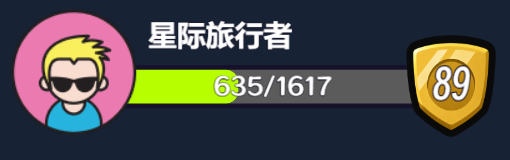
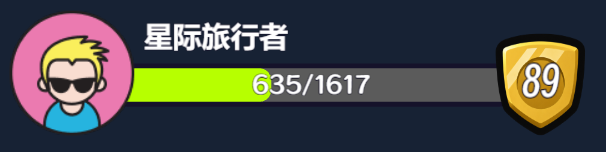
feat: make the player profile HUD reflow reactively

Changed region(s): [[0.0, 0.0526, 0.9706, 0.8947], [0.8529, 0.2105, 0.8824, 0.2368]]

diff --git a/game-ui-showcase/scripts/smoke.ts b/game-ui-showcase/scripts/smoke.ts
@@ -1,15 +1,22 @@
 import assert from 'node:assert/strict';
-import { CueElement, CueImageElement, CueRootElement, Length, Text, createCueRenderer, defineComponent, h, nextTick, type CueNode } from '@bsgames/cue';
+import { CueElement, CueImageElement, CueRootElement, Length, LengthUnit, Text, createCueRenderer, defineComponent, h, nextTick, type CueNode } from '@bsgames/cue';
 import { createShowcaseState, showcaseCases } from '../src/showcase-state.ts';
 
 function textContent(node: CueNode): string {
   if (node instanceof Text) return node.data.trim();
   return node instanceof CueElement ? node.children.map(textContent).join('') : '';
 }
-function imageCount(node: CueNode): number {
+function elements(node: CueNode): CueElement[] {
   return node instanceof CueElement
-    ? Number(node instanceof CueImageElement) + node.children.reduce((total, child) => total + imageCount(child), 0)
-    : 0;
+    ? [node, ...node.children.flatMap(elements)]
+    : [];
+}
+function assertRetainedElements(root: CueElement, expected: readonly CueElement[]): void {
+  const actual = elements(root);
+  assert.equal(actual.length, expected.length);
+  for (const [index, element] of actual.entries()) {
+    assert.equal(element, expected[index]);
+  }
 }
 
 const state = createShowcaseState();
@@ -20,6 +27,8 @@ const app = createCueRenderer().createApp(defineComponent(() => () => h(state.cu
   experience: state.experience.value,
   experienceMax: state.experienceMax,
   experienceRatio: state.experienceRatio.value,
+  hudWidth: state.hudWidth.value,
+  nameFontSize: state.nameFontSize.value,
   fonts: { level: 'sans-serif', numbers: 'sans-serif' },
 })));
 app.mount(root);
@@ -28,33 +37,64 @@ await nextTick();
 /// @case The first registered case opens.
 /// @expect The player HUD has the two actual image elements and account values.
 assert.equal(state.currentCase.value.id, 'player-profile');
-assert.equal(imageCount(root), 2);
+const initialElements = elements(root);
+assert.equal(initialElements.filter(element => element instanceof CueImageElement).length, 2);
 assert.ok(textContent(root).includes('星际旅行者'));
 assert.ok(textContent(root).includes('635/1617'));
 const mountedCase = root.children[0];
 assert.ok(mountedCase instanceof CueElement);
-const hudFrame = mountedCase.children.filter(child => child instanceof CueElement)[2];
-assert.ok(hudFrame instanceof CueElement);
-const hud = hudFrame.children[0];
+const hud = initialElements.find(element =>
+  element.children.some(child => child instanceof CueElement && child.tagName === 'cue-image')
+  && elements(element).filter(child => child instanceof CueImageElement).length === 2);
 assert.ok(hud instanceof CueElement);
-const experienceTrack = hud.children[0];
-assert.ok(experienceTrack instanceof CueElement);
-const experienceFill = experienceTrack.children[0];
+const playerName = initialElements.find(element =>
+  element.children.some(child => child instanceof Text && child.data.trim() === state.playerName.value));
+assert.ok(playerName instanceof CueElement);
+const experienceFill = initialElements.find(element =>
+  element.style.width instanceof Length && element.style.width.unit === LengthUnit.percent);
 assert.ok(experienceFill instanceof CueElement);
 assert.deepEqual(experienceFill.style.width, Length.percent(635 / 1617 * 100));
+assert.equal(state.hudWidth.value, 480);
+assert.equal(state.nameFontSize.value, 24);
+assert.equal(hud.style.width, 480);
+assert.equal(playerName.style.fontSize, 24);
 
-/// @case The same profile changes name, level, and experience.
-/// @expect Cue updates the mounted case, retaining the element tree and deriving continuous progress.
+/// @case The HUD receives a long name, a narrow width, and a larger font.
+/// @expect Width and font follow their props, and the long name is never automatically shrunk.
+state.playerName.value = '一位名字很长的太空探险家';
+state.hudWidth.value = 360;
+state.nameFontSize.value = 32;
+await nextTick();
+assert.equal(playerName.style.fontSize, 32);
+assert.equal(hud.style.width, 360);
+assertRetainedElements(root, initialElements);
+
+/// @case The same profile changes name, level, experience, width, and font size.
+/// @expect Cue retains every element while updating text, dimensions, and percentage progress.
 state.playerName.value = 'Nova';
 state.level.value = 42;
 state.experience.value = 808;
+state.hudWidth.value = 620;
+state.nameFontSize.value = 18;
 await nextTick();
 assert.equal(root.children[0], mountedCase);
+assert.equal(hud.style.width, 620);
+assert.equal(playerName.style.fontSize, 18);
+assertRetainedElements(root, initialElements);
 assert.ok(textContent(root).includes('Nova'));
 assert.ok(textContent(root).includes('808/1617'));
 assert.ok(textContent(root).includes('42'));
 assert.equal(state.experienceRatio.value, 808 / 1617);
 assert.deepEqual(experienceFill.style.width, Length.percent(808 / 1617 * 100));
+
+/// @case Experience is empty, then full, after the HUD has resized.
+/// @expect The same fill element retains percentage sizing at both endpoints.
+for (const value of [0, state.experienceMax]) {
+  state.experience.value = value;
+  await nextTick();
+  assert.deepEqual(experienceFill.style.width, Length.percent(value / state.experienceMax * 100));
+  assertRetainedElements(root, initialElements);
+}
 
 /// @case Every registered tab is selected.
 /// @expect Selection chooses a real case component; unmount leaves no retained visual nodes.

diff --git a/game-ui-showcase/src/index.ts b/game-ui-showcase/src/index.ts
@@ -46,6 +46,8 @@ async function mountShowcase(scene: Scene): Promise<void> {
   const state = createShowcaseState();
   const component = defineComponent(() => () => h(state.currentCase.value.component, {
     playerName: state.playerName.value,
+    hudWidth: state.hudWidth.value,
+    nameFontSize: state.nameFontSize.value,
     level: state.level.value,
     experience: state.experience.value,
     experienceMax: state.experienceMax,
@@ -102,35 +104,55 @@ async function mountShowcase(scene: Scene): Promise<void> {
   panel.setPosition(385, 0);
   canvasNode.addChild(panel);
   const title = createLabel('PROFILE STATE', 16, 290, 30, new Color(183, 255, 0));
-  title.setPosition(0, 155);
+  title.setPosition(0, 225);
   panel.addChild(title);
   const nickname = createLabel('', 15, 290, 32);
-  nickname.setPosition(0, 112);
+  nickname.setPosition(0, 182);
   panel.addChild(nickname);
   const names = ['星际旅行者', 'Nova', '一位名字很长的太空探险家'];
   for (const [index, name] of names.entries()) {
     const button = createButton(index === 0 ? '中文' : index === 1 ? 'Latin' : 'Long name', 90, 30, () => {
       state.playerName.value = name;
     });
-    button.setPosition(-96 + index * 96, 72);
+    button.setPosition(-96 + index * 96, 148);
     panel.addChild(button);
   }
+  const hudWidth = createLabel('', 15, 290, 28);
+  hudWidth.setPosition(0, 104);
+  panel.addChild(hudWidth);
+  const widthButtons: Array<{ value: number; node: Node }> = [];
+  for (const [index, value] of [360, 480, 620].entries()) {
+    const button = createButton(`${value} px`, 90, 30, () => { state.hudWidth.value = value; });
+    button.setPosition(-96 + index * 96, 72);
+    panel.addChild(button);
+    widthButtons.push({ value, node: button });
+  }
+  const nameFontSize = createLabel('', 15, 290, 28);
+  nameFontSize.setPosition(0, 28);
+  panel.addChild(nameFontSize);
+  const fontSizeButtons: Array<{ value: number; node: Node }> = [];
+  for (const [index, value] of [18, 24, 32].entries()) {
+    const button = createButton(`${value} px`, 90, 30, () => { state.nameFontSize.value = value; });
+    button.setPosition(-96 + index * 96, -4);
+    panel.addChild(button);
+    fontSizeButtons.push({ value, node: button });
+  }
   const level = createLabel('', 15, 290, 28);
-  level.setPosition(0, 26);
+  level.setPosition(0, -48);
   panel.addChild(level);
   for (const [index, value] of [1, 42, 89].entries()) {
     const button = createButton(String(value), 90, 30, () => { state.level.value = value; });
-    button.setPosition(-96 + index * 96, -8);
+    button.setPosition(-96 + index * 96, -80);
     panel.addChild(button);
   }
   const experience = createLabel('', 14, 290, 28);
-  experience.setPosition(0, -54);
+  experience.setPosition(0, -124);
   panel.addChild(experience);
 
   const sliderNode = new Node('Experience Slider');
   sliderNode.layer = Layers.Enum.UI_2D;
   sliderNode.addComponent(UITransform).setContentSize(260, 26);
-  sliderNode.setPosition(0, -92);
+  sliderNode.setPosition(0, -162);
   const track = sliderNode.addComponent(Graphics);
   track.fillColor = new Color(51, 65, 85);
   track.roundRect(-130, -3, 260, 6, 3);
@@ -159,15 +181,23 @@ async function mountShowcase(scene: Scene): Promise<void> {
       state.experience.value = Math.round(ratio * state.experienceMax);
       slider.progress = state.experienceRatio.value;
     });
-    button.setPosition(-96 + index * 96, -138);
+    button.setPosition(-96 + index * 96, -204);
     panel.addChild(button);
   }
   const stopWatching = watch(
-    [state.playerName, state.level, state.experience],
+    [state.playerName, state.hudWidth, state.nameFontSize, state.level, state.experience],
     () => {
       nickname.getComponent(Label)!.string = state.playerName.value;
+      hudWidth.getComponent(Label)!.string = `HUD width ${state.hudWidth.value} px`;
+      nameFontSize.getComponent(Label)!.string = `Name size ${state.nameFontSize.value} px`;
       level.getComponent(Label)!.string = `Level ${state.level.value}`;
       experience.getComponent(Label)!.string = `Experience ${state.experience.value} / ${state.experienceMax}`;
+      for (const choice of widthButtons) {
+        paintButton(choice.node, 90, 30, choice.value === state.hudWidth.value);
+      }
+      for (const choice of fontSizeButtons) {
+        paintButton(choice.node, 90, 30, choice.value === state.nameFontSize.value);
+      }
     },
     { immediate: true },
   );
@@ -209,6 +239,11 @@ function paintButton(node: Node, width: number, height: number, selected: boolea
   graphics.fillColor = selected ? new Color(72, 82, 40) : new Color(30, 41, 59);
   graphics.roundRect(-width / 2, -height / 2, width, height, 6);
   graphics.fill();
+  if (selected) {
+    graphics.strokeColor = new Color(183, 255, 0);
+    graphics.lineWidth = 1.5;
+    graphics.stroke();
+  }
 }
 
 function createButton(text: string, width: number, height: number, onClick: () => void): Node {

diff --git a/game-ui-showcase/src/showcase-state.ts b/game-ui-showcase/src/showcase-state.ts
@@ -25,6 +25,8 @@ export function createShowcaseState() {
     return selected;
   });
   const playerName = ref('星际旅行者');
+  const hudWidth = ref(480);
+  const nameFontSize = ref(24);
   const level = ref(89);
   const experience = ref(635);
   const experienceMax = 1617;
@@ -33,6 +35,8 @@ export function createShowcaseState() {
     selectedCase,
     currentCase,
     playerName,
+    hudWidth,
+    nameFontSize,
     level,
     experience,
     experienceMax,

diff --git a/game-ui-showcase/README.md b/game-ui-showcase/README.md
@@ -20,12 +20,22 @@ Each case lives in its own directory under `src/cases/`, even when it contains o
 The first case reproduces a lobby player HUD: avatar, name, experience bar and level badge.
 Its source is [player-profile.cue](src/cases/player-profile/player-profile.cue).
 Select a short/long/Chinese nickname, choose a level, drag the experience slider, or use 0/50/100% presets.
+Inline choices also control the HUD width (360/480/620 px) and nickname font size (18/24/32 px).
 The experience meter's width is assigned through a template ref with `element.style.width = Length.percent(...)`;
-its label updates with the same state. The long-name preset assigns a numeric `fontSize` in pixels.
+its label updates with the same state. HUD width and nickname font size use numeric style API values in pixels.
 
-The HUD uses CSS absolute positioning, overlapping SpriteFrames, imported TTF fonts,
-font weight and Cue text stroke. Its source canvas is 404 by 108 units.
+The HUD is a Flex row: avatar, a flexible column containing the nickname and experience meter, and level badge.
+Long names wrap at the selected font size; the HUD and surrounding frame grow with their content.
+Only the experience and level labels use absolute positioning to overlay their respective artwork.
+Negative margins retain the avatar/badge overlaps without fixing the information column's position or width.
 The surrounding frame is presentation space for the example, not another game screen.
+
+To verify reactivity, select the long nickname and 32 px font, then switch between 360 and 620 px widths.
+The nickname should wrap and unwrap without shrinking its font or recreating the HUD.
+At 360 px with the requested Microsoft YaHei UI font, all three lines must remain fully visible above the meter;
+the last line must not be covered by the track. This also checks padded text measurement during Flex reflow.
+Move the experience slider to check that the fill and digits update together at every width.
+The case retains overlapping SpriteFrames, imported TTF fonts, font weight and Cue text stroke.
 
 `src/showcase-state.ts` owns the case registry and selection state. Each registry entry produces a tab
 and selects its Cue component. Only Player profile is registered initially; add complete cases there

diff --git a/README.md b/README.md
@@ -13,7 +13,7 @@ Case tabs select the examples; Cocos UI provides their state controls. The image
 
 | Preview | Description |
 | --- | --- |
-| ![Player profile HUD](docs/showcase/player-profile-hud.png) | **[Player profile](game-ui-showcase/src/cases/player-profile/player-profile.cue)** — A lobby HUD with an avatar, nickname, level badge, and live experience bar. Nickname, level, and experience can be changed interactively. |
+| ![Player profile HUD](docs/showcase/player-profile-hud.png) | **[Player profile](game-ui-showcase/src/cases/player-profile/player-profile.cue)** — A reactive lobby HUD with an avatar, nickname, level badge, and live experience bar. Change the nickname, font size, or width to see Flex reflow and text wrapping; level and experience update in place. |
 
 ## Local setup
 
